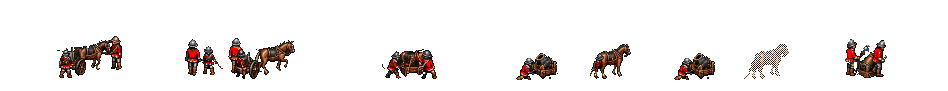
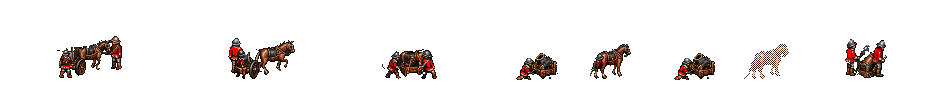
v0.7.113: mortar deploy (east) frame 1 had a second pair of men off to the side: only the two at the cart now
Claude-Session: https://claude.ai/code/session_01NtmEZhP1uA8k4DLQ7BYfMz

Changed region(s): [[0.1835, 0.4396, 0.2447, 0.8352]]

diff --git a/tools/fix_mortar_crew.py b/tools/fix_mortar_crew.py
@@ -287,6 +287,12 @@ def main():
             for e in [e for e in todo if e[0] == "P"]:
                 apply(cell, e, before)
         Image.fromarray(strip).save(os.path.join(OUT, f"{name}.png"))
+    # deploy east, frame 1: a second pair stood apart to the left of the cart (4 men in
+    # all): only the two at the cart stay
+    p = os.path.join(OUT, "deploy_e.png")
+    im = np.array(Image.open(p).convert("RGBA"))
+    im[:, 158 + 20:158 + 67, 3] = 0
+    Image.fromarray(im).save(p)
     print("mortar crew: two men in every view, no pennant")
 
 
